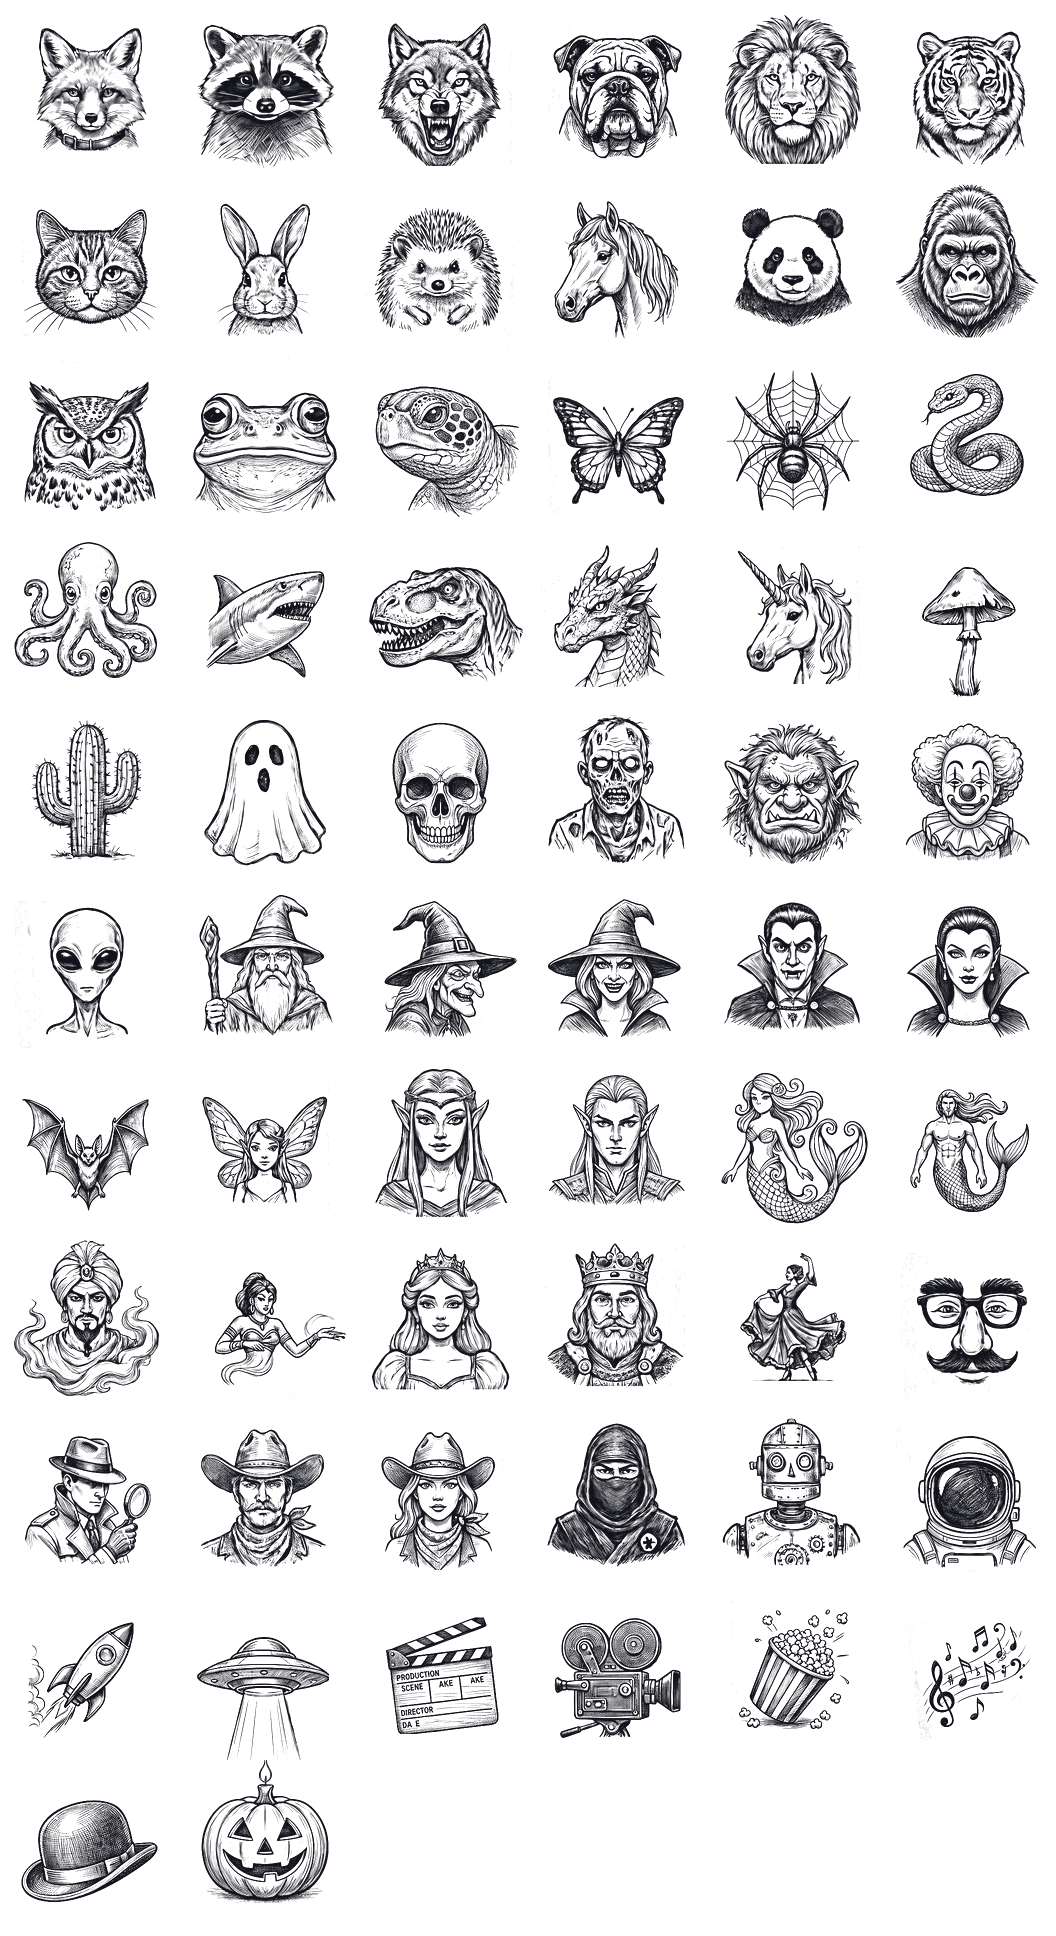
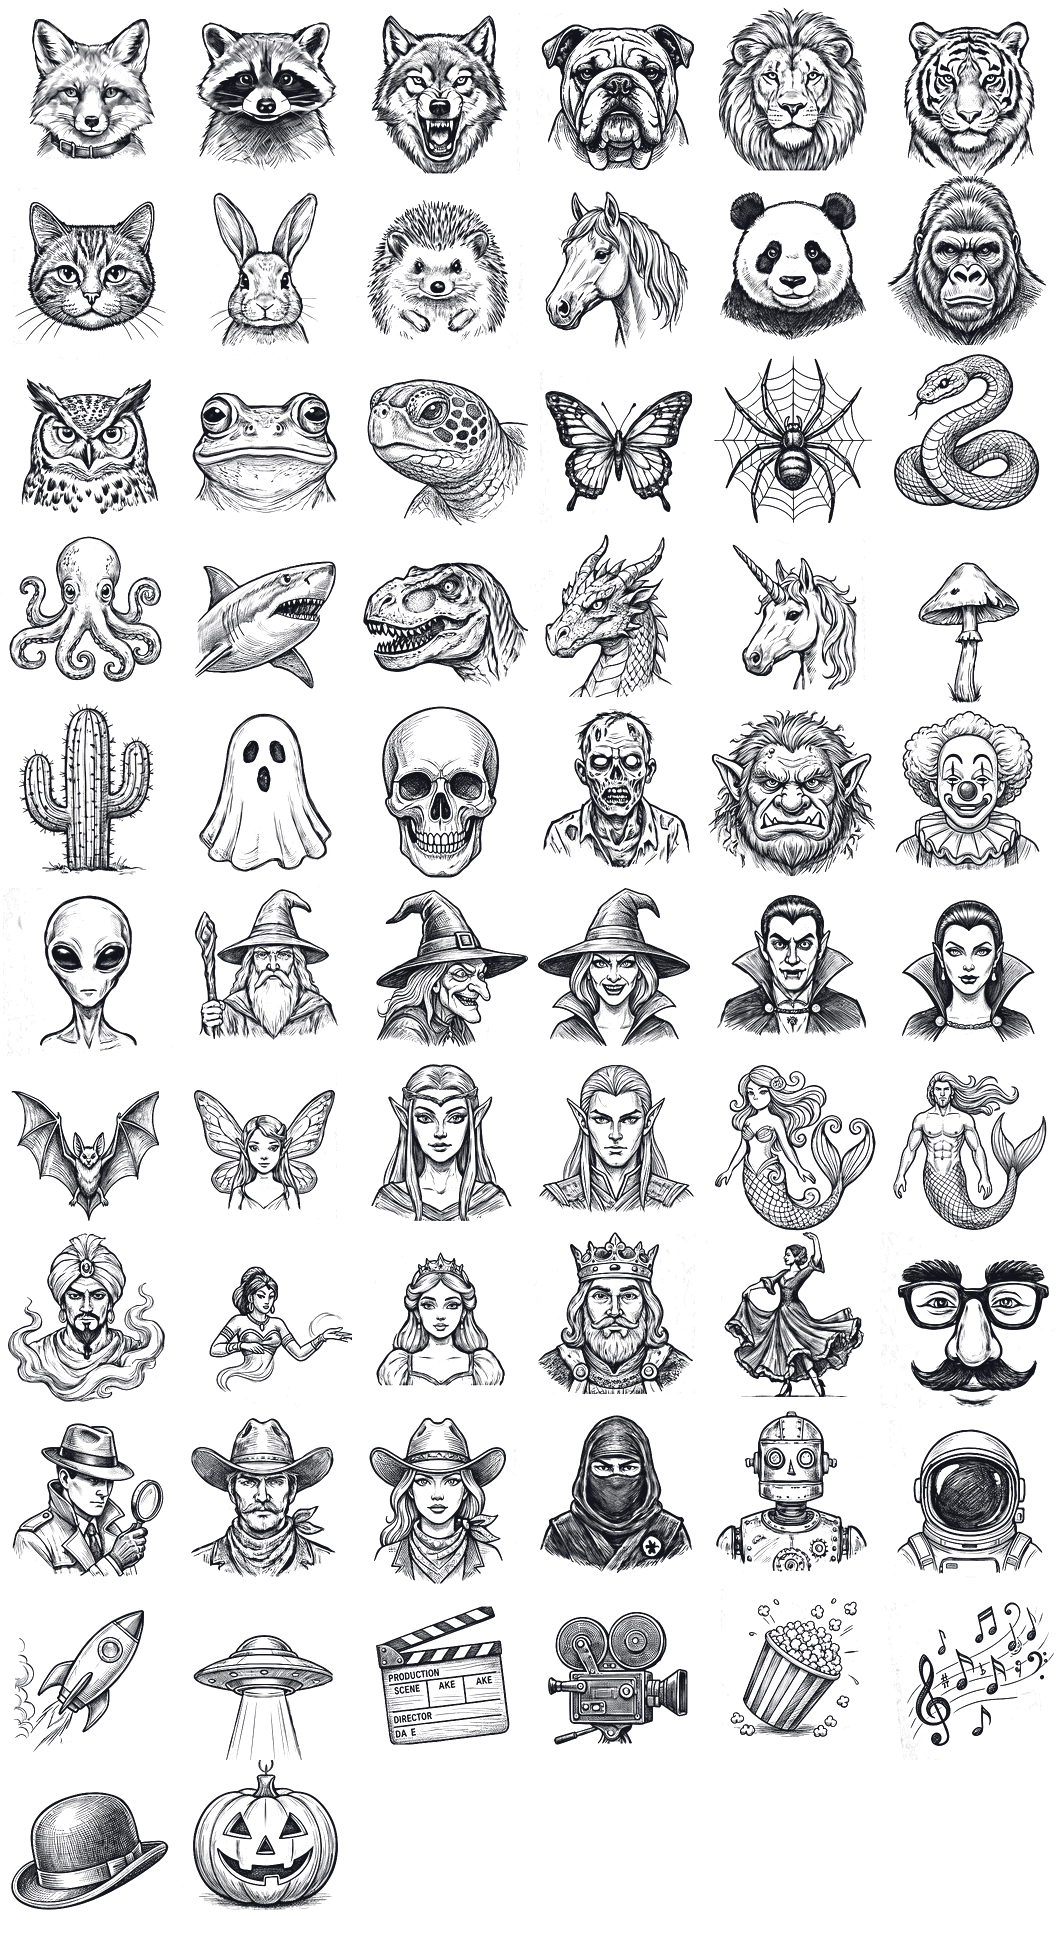
Fit every drawing to its circle instead of guessing a zoom (v0.48.0)
Some avatars read as pale blobs at 38px. Measured rather than eyeballed: the
drawings filled anywhere from 62% to 90% of their disc, median 77%, and the ones
that failed were simply the small ones - the subject occupied so little of the
circle that its detail averaged away.

The cause was the hand-set zoom column. It was solving two problems at once,
clearance for ear tips and horns, and overall size, so tightening one loosened
the other and no value was right for both.

Scale is now found per cell by binary search: the largest size at which the
drawing's own ink still sits inside 96.5% of the radius. Nothing clips and
nothing is left small, and the zoom column is no longer consulted.

The test is by ink MASS, not by the furthest pixel - a wisp of rocket exhaust or
a saucer's light beam would otherwise hold the whole drawing small to keep its
own tip inside. Allowing the outer 0.7% of ink to leave the circle took the UFO
from 63% to 79%.

Fill across the 62: min 62% -> 76%, median 77% -> 87%. Checked for clipping on
the parts most at risk - the rabbit's ears, the unicorn's horn, the wizard's
staff, the witch's brim, the dragon's horns - all intact.

diff --git a/index.html b/index.html
@@ -14,9 +14,9 @@
 <script src="https://cdn.jsdelivr.net/npm/@supabase/supabase-js@2"></script>
 <!-- Versioned on purpose. index.html is served network-first while assets are
      cache-first, so without the query a fresh page could load a cached older
-     emoji.js - which is exactly what emptied the avatar picker after v0.47.2.
+     emoji.js - which is exactly what emptied the avatar picker after v0.48.0.
      Bump this with the release; sw.js precaches the same URL. -->
-<script src="./emoji.js?v=0.47.2"></script>
+<script src="./emoji.js?v=0.48.0"></script>
 <link rel="preconnect" href="https://fonts.googleapis.com">
 <link rel="preconnect" href="https://fonts.gstatic.com" crossorigin>
 <link href="https://fonts.googleapis.com/css2?family=Bebas+Neue&family=Oswald:wght@500;600;700&family=DM+Sans:wght@300;400;500;600&family=Noto+Sans+Georgian:wght@400;500;600;700&display=swap" rel="stylesheet">
@@ -2626,7 +2626,7 @@ button.is-pressed, .avatar-emoji-btn.is-pressed, .avatar-color-dot.is-pressed { 
         <div style="margin-top:6px" data-i18n="about_privacy" data-i18n-html="1">
           <a href="https://cinemail.app/privacy.html" target="_blank" rel="noopener" style="color:var(--accent-text);text-decoration:none">Privacy Policy</a>
         </div>
-        <div style="margin-top:8px;font-size:10px;color:var(--muted);opacity:0.7">Cinemail <span id="app-version">v0.47.2</span></div>
+        <div style="margin-top:8px;font-size:10px;color:var(--muted);opacity:0.7">Cinemail <span id="app-version">v0.48.0</span></div>
       </div>
 
       <div style="display:flex;gap:9px">

diff --git a/emoji.js b/emoji.js
@@ -7,11 +7,11 @@
 // Order is row-major, six per row, and must match the sheet exactly - a wrong index
 // silently shows the neighbouring character rather than failing, so ORDER below is the
 // single source of truth for both the picker and the avatar.
-const AVATAR_SPRITE = "./avatars.webp?v=0.47.2";     // the ink
+const AVATAR_SPRITE = "./avatars.webp?v=0.48.0";     // the ink
 // The subject's filled shape. With a sheet of paper under the drawing the card can be
 // the exact palette colour: the ink stays dark and legible on top of the paper, so the
 // colour never has to be lightened to carry it, and it never has to be inverted either.
-const AVATAR_FILL = "./avatars-fill.webp?v=0.47.2";
+const AVATAR_FILL = "./avatars-fill.webp?v=0.48.0";
 const AVATAR_COLS = 6;
 // Grouped, not arbitrary: the picker is 62 circles now, and it reads as sections -
 // animals, then creatures, then monsters, then magic folk, then people, then the

diff --git a/sw.js b/sw.js
@@ -1,5 +1,5 @@
 // ── Cache version — bump this string on every deploy to force refresh ──────────
-const CACHE_VERSION = "v175";
+const CACHE_VERSION = "v176";
 const CACHE_NAME = "cinemail-" + CACHE_VERSION;
 
 // Files to cache for offline use
@@ -10,9 +10,9 @@ const PRECACHE = [
   "./logo.png",
   "./icon.png",          // shown on the splash and all four auth screens, not just as the home-screen icon
   "./exceljs.min.js",
-  "./emoji.js?v=0.47.2",
-  "./avatars.webp?v=0.47.2",
-  "./avatars-fill.webp?v=0.47.2",
+  "./emoji.js?v=0.48.0",
+  "./avatars.webp?v=0.48.0",
+  "./avatars-fill.webp?v=0.48.0",
 ];
 
 // Minimal branded offline page — last-resort fallback so a home-screen launch with
